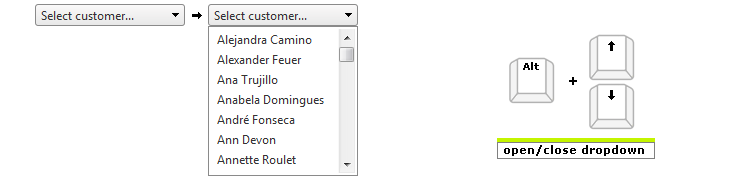
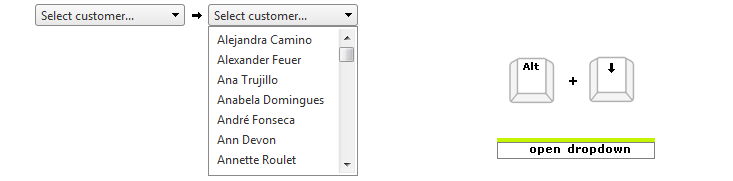
RadDropDownList Keyboard Support article update

diff --git a/controls/dropdownlist/accessibility-and-internationalization/keyboard-support.md b/controls/dropdownlist/accessibility-and-internationalization/keyboard-support.md
@@ -10,34 +10,39 @@ position: 0
 
 # Keyboard Support
 
+A critical requirement for software accessibility is keyboard support as a complete alternative to pointing devices (mouse, etc.).
 
+Keyboard support is comprised of command key, focus key, and keyboard navigation. RadDropDownList will seamlessly switch between mouse and keyboard navigation.
 
-## 
+In order to configure keyboard support with RadDropDownList its KeyboardNaviagationSettings should be set:
 
-**RadDropDownList** provides support for the two relevant aspects of keyboard support:
+>note Certain keyboard combinations are reserved and used as shortcuts in the browsers. 
+>
 
-* **Access Keys** - You can specify a key that lets the end-user move focus directly to the dropdownlist. Once focus is on the dropdownlist, the user can use the arrow keys for navigation. The access key is defined using the **AccessKey** property. For example, if you set the **AccessKey** property to "W", focus moves to the combobox when the user types "Alt+W".
+<telerik:RadDropDownList ID="RadDropDownList1" runat="server" >
+    <KeyboardNavigationSettings CommandKey="Alt" FocusKey="M" />
+</telerik:RadDropDownList>
 
-* **Key Navigation**-RadDropDownList allows end-users to navigate the dropdownlist structure using the arrow keys, the PageUp/PageDown keys and the Enter key:
+## Keyboard Navigation
 
-* The "Alt + W" focuses the drop-down list. ![dropdownlist-accessibilityandinternalization-keyboardsupport-focus](images/dropdownlist-accessibilityandinternalization-keyboardsupport-focus.png)
+* **CommandKey** + **FocusKey** (for example Alt + M) focuses the RadDropDownList. ![dropdownlist-accessibilityandinternalization-keyboardsupport-focus](images/dropdownlist-accessibilityandinternalization-keyboardsupport-focus.png)
 
-* The "Alt + Up" arrow opens the drop-down list. ![dropdownlist-accessibilityandinternalization-keyboardsupport-open](images/dropdownlist-accessibilityandinternalization-keyboardsupport-open.png)
+* The **Alt** + **Down** arrow opens the drop-down list. ![dropdownlist-accessibilityandinternalization-keyboardsupport-open](images/dropdownlist-accessibilityandinternalization-keyboardsupport-open.png)
 
-* The "PageUp" or "PageDown" arrows to scroll to the previous/next “page” in the drop down listof items.![dropdownlist-accessibilityandinternalization-keyboardsupport-navigationpage](images/dropdownlist-accessibilityandinternalization-keyboardsupport-navigationpage.png)
+* The **PageUp** or **PageDown** scroll to the previous/next portion of items in the dropdown.![dropdownlist-accessibilityandinternalization-keyboardsupport-navigationpage](images/dropdownlist-accessibilityandinternalization-keyboardsupport-navigationpage.png)
 
-* The "Esc" key to close the list without changing the selection.![dropdownlist-accessibilityandinternalization-keyboardsupport-close](images/dropdownlist-accessibilityandinternalization-keyboardsupport-close.png)
+* The **Up** and **Down** arrow keys allow the user to navigate along the items in the dropdown in the corresponding direction.![dropdownlist-accessibilityandinternalization-keyboardsupport-navigation](images/dropdownlist-accessibilityandinternalization-keyboardsupport-navigation.png)
 
-* The up and down arrow keys allows user to navigate along the items in the drop down list in the corresponding direction.![dropdownlist-accessibilityandinternalization-keyboardsupport-navigation](images/dropdownlist-accessibilityandinternalization-keyboardsupport-navigation.png)
-
-* The "Enter" key selects the current item in the list.![dropdownlist-accessibilityandinternalization-keyboardsupport-select](images/dropdownlist-accessibilityandinternalization-keyboardsupport-select.png)
+* The **Enter** key selects the current item in the list.![dropdownlist-accessibilityandinternalization-keyboardsupport-select](images/dropdownlist-accessibilityandinternalization-keyboardsupport-select.png)
 
 * Typing a letter moves focus to the next instance of a visible item, whose text begins with that letter.![dropdownlist-accessibilityandinternalization-keyboardsupport-highlightnextelement](images/dropdownlist-accessibilityandinternalization-keyboardsupport-highlightnextelement.png)
 
 * Typing a sequence of letters moves focus to the first matched item, whose text starts with that sequence.![dropdownlist-accessibilityandinternalization-keyboardsupport-highlightmatchingelement](images/dropdownlist-accessibilityandinternalization-keyboardsupport-highlightmatchingelement.png)
 
-* The "Alt+Down" arrow closes the drop-down list.![dropdownlist-accessibilityandinternalization-keyboardsupport-open](images/dropdownlist-accessibilityandinternalization-keyboardsupport-open.png)
+* The **Alt** + **Up** arrow or **Esc** closes the dropdown.![dropdownlist-accessibilityandinternalization-keyboardsupport-open](images/dropdownlist-keyboardsupport-collapse.png)
 
->note In order to enable the keyboard support in browsers, different from Internet Explorer, you shoud set the **TabIndex** property of the RadDropDownList.
->
+# See Also
+
+ * [Keyboard Support Demo](http://demos.telerik.com/aspnet-ajax/dropdownlist/examples/accessibility/keyboardsupport/defaultcs.aspx)
+
 
